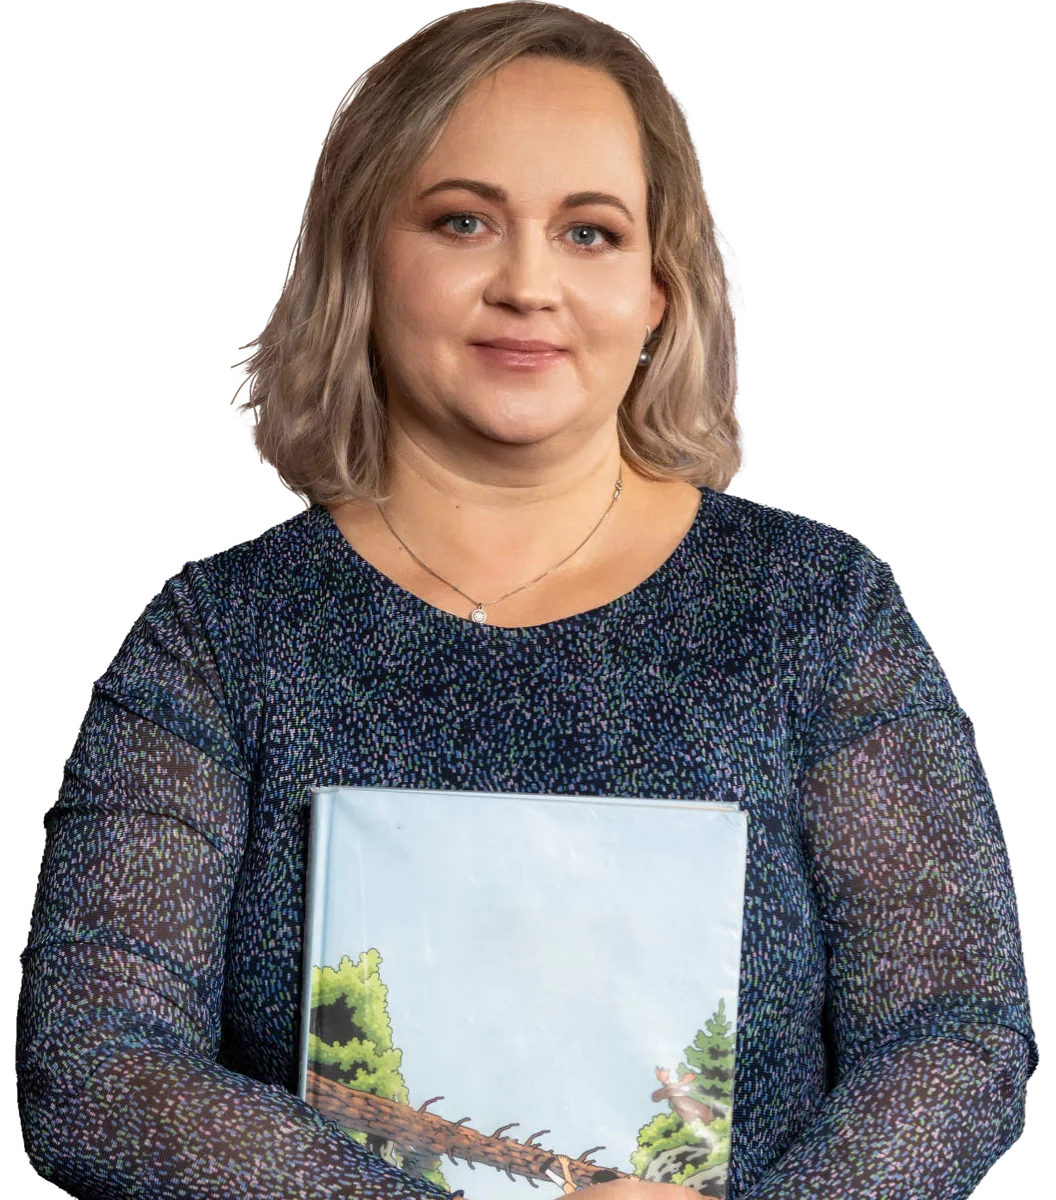
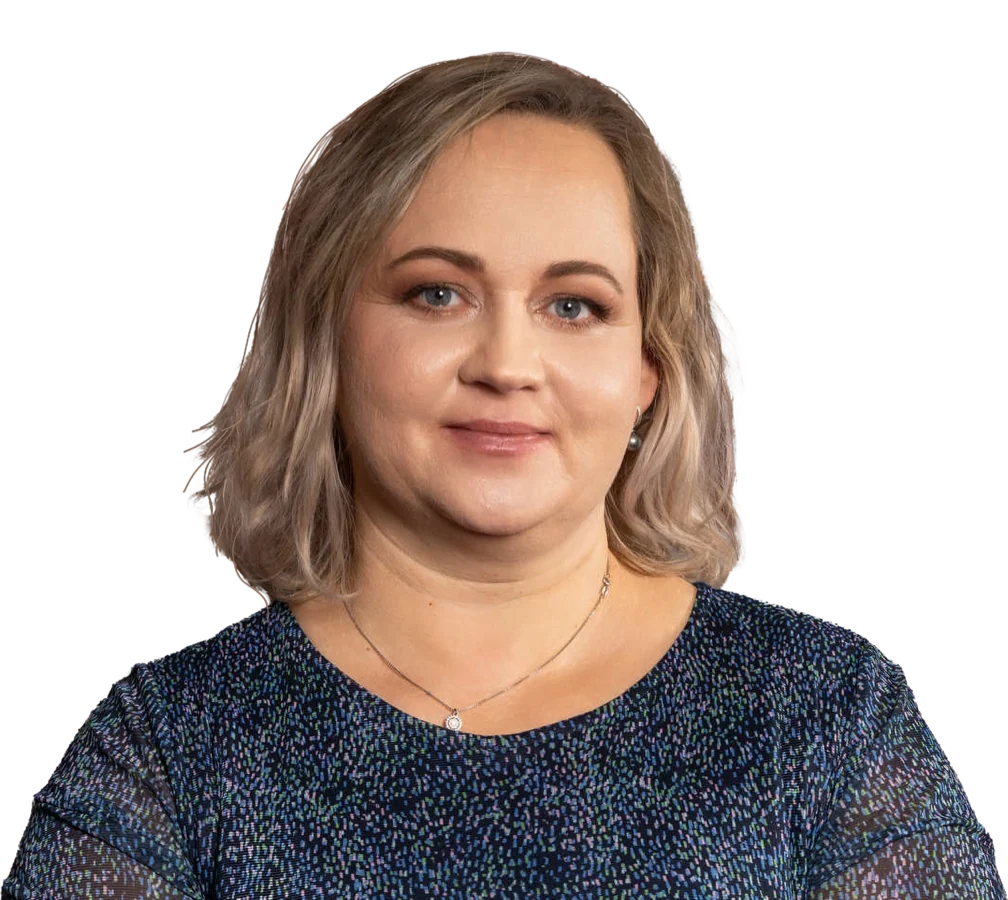
Feedbacks 22.9.
Tesnejšie portréty, menšie karty, oprava orezu a úvodzoviek

diff --git a/index.html b/index.html
@@ -59,9 +59,8 @@ body{
 
 /* ---------- HERO ---------- */
 .hero{
-  position:relative; padding-bottom:6cqw;   /* fotka pokračuje pod ľuďmi */
+  position:relative;
   container-type:inline-size;      /* písmo viažeme na šírku bloku, nie okna */
-  overflow:hidden;
   background:#B9D6ED;      /* farba oblohy z hornej hrany fotky */
   display:flex; flex-direction:column;   /* výška podľa obsahu – fotka ide až po pás */
 }
@@ -83,21 +82,25 @@ body{
 
 /* čierny pás – výška 3,87 % šírky bloku, zmerané */
 .topbar{
-  margin-top:3.6cqw;
+  /* šírka ako headline, a leží presne na hornej hrane fotky –
+     polovicou na oranžovom okraji, polovicou na fotke */
+  width:var(--measure); margin:0 auto;
+  position:relative; z-index:3;
+  transform:translateY(-50%);
   background:var(--ink);
   color:var(--white);
   font-family:var(--display);
   font-weight:900;
   font-size:1.78cqw;
-  letter-spacing:.02em;
+  letter-spacing:.005em;
   text-transform:uppercase;
   display:flex; justify-content:center; align-items:center;
-  gap:2cqw;
-  padding:.85cqw 1.6cqw;
+  gap:1.15cqw;
+  padding:.8cqw 1.5cqw;
   white-space:nowrap;
 }
-.topbar span{ display:flex; align-items:center; gap:2cqw }
-.topbar span::after{ content:""; width:2.6cqw; height:.26cqw; background:currentColor }
+.topbar span{ display:flex; align-items:center; gap:1.15cqw }
+.topbar span::after{ content:""; width:1.9cqw; height:.24cqw; background:currentColor }
 .topbar span:last-child::after{ display:none }
 
 /* vzduch medzi headlinom a ľuďmi – tu dýcha hrad */
@@ -109,7 +112,9 @@ body{
    pod ruky, nohy vidieť nie sú. Výška = polovica výšky fotky. */
 .hero__people{
   position:relative; display:block; width:var(--measure); margin:0 auto;
-  height:15cqw; overflow:hidden;
+  /* o 3,9 cqw vyššie, než je vidieť – ten kus schová biely pás,
+     takže rez nikdy nevykukne */
+  height:18.9cqw; overflow:hidden;
 }
 .hero__people img{ display:block; width:100%; height:auto }
 
@@ -120,7 +125,7 @@ body{
    Font má versálku 0,745 em → veľkosť písma 17,3 cqw,
    a plagát je o 10,2 % užší než prirodzený font → prestrkanie −0,035 em. */
 .hl{
-  margin:2.2cqw 0 0;
+  margin:-0.6cqw 0 0;
   font-family:var(--display);
   font-weight:900;
   width:max-content; max-width:100%; margin-inline:auto;
@@ -160,34 +165,24 @@ body{
   /* Pás je presne taký široký ako skupinová fotka a leží na jej spodnej
      hrane. Každá položka je potom posunutá tak, aby číslo a meno sedeli
      pod svojím človekom – polohy hláv sú odmerané z tej fotky. */
-  list-style:none; width:var(--measure); margin:-6cqw auto 0;
-  padding:var(--s3) 0;
+  list-style:none; width:var(--measure); margin:-3.9cqw auto 0;
+  padding:var(--s3) clamp(18px, 3.44vw, 52px);  /* odmerané: pri tejto hodnote sadnú čísla najbližšie k ľuďom */
   background:var(--white); border-radius:clamp(10px,1.3vw,18px);
-  display:grid; grid-template-columns:repeat(9, minmax(0,1fr)); gap:var(--s4) 0;
+  display:flex; justify-content:space-between; align-items:flex-start; gap:var(--s3);
   position:relative;
 }
-.team__item{ text-align:center; display:flex; flex-direction:column; align-items:center; gap:var(--s2) }
-/* posun každej položky na svojho človeka (% šírky položky) */
-.team__item:nth-child(1){ --dx:22.3% }
-.team__item:nth-child(2){ --dx:8.9% }
-.team__item:nth-child(3){ --dx:10.8% }
-.team__item:nth-child(4){ --dx:14.0% }
-.team__item:nth-child(5){ --dx:4.7% }
-.team__item:nth-child(6){ --dx:-11.4% }
-.team__item:nth-child(7){ --dx:-23.3% }
-.team__item:nth-child(8){ --dx:-8.2% }
-.team__item:nth-child(9){ --dx:-15.2% }
-.team__item{ transform:translateX(var(--dx,0)) }
+.team__item{ text-align:left; display:flex; flex-direction:column; align-items:flex-start; gap:var(--s2) }
 
 .team__num{
   font-family:var(--display); font-weight:900; font-size:clamp(14px,1.8vw,25px);
   line-height:1; color:var(--white); background:var(--orange);
-  border-radius:6px; padding:.26em .40em .20em; min-width:1.9em;
+  border-radius:6px; width:1.52em; aspect-ratio:1;    /* štvorec, nie obdĺžnik */
+  display:grid; place-items:center; padding:0 0 .06em;
 }
 .team__name{ line-height:1.05 }
 .team__fn{
   display:block; font-family:var(--display); font-weight:700;
-  font-size:clamp(10px,0.95vw,14px); color:var(--ink); letter-spacing:.01em;
+  font-size:clamp(12px,1.26vw,18px); color:var(--ink); letter-spacing:.01em;
 }
 .team__sn{
   display:block; font-family:var(--display); font-weight:900;
@@ -195,10 +190,12 @@ body{
   text-transform:uppercase; letter-spacing:-.01em;
 }
 
-@media (max-width:900px){
+@media (max-width:1150px){
   /* 3×3 – tam sa pod ľudí zarovnať nedá, posun vypíname */
-  .team__list{ grid-template-columns:repeat(3, 1fr); gap:var(--s5) var(--s3);
+  .team__list{ display:grid; grid-template-columns:repeat(3, 1fr);
+               gap:var(--s5) var(--s3); justify-content:stretch;
                width:auto; margin:-1px 0 0; padding:var(--s5) var(--s3) }
+  .team__item{ align-items:center; text-align:center }
   .team__item{ transform:none }
 }
 @media (max-width:560px){
@@ -217,18 +214,19 @@ body{
 
 .say{
   position:relative; background:var(--white); border-radius:var(--s6);
-  padding:var(--s5) var(--s5) var(--s5) 43%;
-  min-height:26cqw;          /* dve vedľa seba ako v PDF */
+  padding:var(--s5) var(--s5) var(--s5) 46%;
+  min-height:19cqw;          /* menej prázdna na to, koľko je textu */
   display:flex; align-items:center;
   scroll-margin-top:var(--s5);
 }
-.say--right{ padding:var(--s5) 43% var(--s5) var(--s5) }
+.say--right{ padding:var(--s5) 46% var(--s5) var(--s5) }
 
-/* Šírku drží plagát (37 % karty), výšku presah 6,1 %. Pomer sa tým
-   nezhoduje s pomerom fotky, tak ju orežeme po stranách – hlava zostáva hore. */
-.say__photo{ position:absolute; bottom:0; left:2%; width:37%; height:106.1%; overflow:hidden }
-.say--right .say__photo{ left:auto; right:2% }
-.say__photo img{ display:block; width:100%; height:100%; object-fit:cover; object-position:50% 0% }
+/* Fotka sa nikde neoreže: šírku zadáme, výška ide sama podľa pomeru
+   obrázka. Preto nie je z jednej strany useknutá a z druhej nie. */
+.say__photo{ position:absolute; bottom:0; left:2.5%; width:40%; height:auto;
+             overflow:hidden; border-radius:var(--s5) }
+.say--right .say__photo{ left:auto; right:2.5% }
+.say__photo img{ display:block; width:100%; height:auto }
 
 .say__body{ position:relative; width:100% }
 
@@ -246,7 +244,8 @@ body{
 .say__mark--a{ top:-.22em; left:-.12em }
 .say__mark--b{ right:-.06em; bottom:-.30em }
 
-.say__name{ margin:var(--s4) 0 0; font-family:var(--script); line-height:1.02; text-align:right }
+.say__name{ position:relative; z-index:1;   /* nad úvodzovkami, nie pod nimi */
+  margin:var(--s4) 0 0; font-family:var(--script); line-height:1.02; text-align:right }
 .say--right .say__name{ text-align:left }
 .say__fn{ display:block; font-size:clamp(17px,1.6vw,23px); color:var(--ink) }
 .say__sn{ display:block; font-size:clamp(20px,2.0vw,29px); color:var(--orange); text-transform:uppercase }
@@ -355,14 +354,14 @@ body{
 <div class="frame">
   <header class="hero">
     <div class="hero__bg" id="bg"></div>
-    <div class="hero__inner">
-
-      <nav class="topbar">
+    <nav class="topbar">
         <span>Voľby do VÚC</span>
         <span>24. október 2026</span>
         <span>Nezávislí kandidáti</span>
-        <span>Okres Trenčín</span>
-      </nav>
+      <span>Okres Trenčín</span>
+    </nav>
+
+    <div class="hero__inner">
 
       <h1 class="hl">
         <span class="hl__line hl__line--1">
@@ -430,7 +429,7 @@ body{
     <h2 id="vyjadrenia-nadpis" class="vh">Čo hovoria kandidáti</h2>
       <article class="say" id="huserka" data-reveal>
         <div class="say__photo">
-          <img src="assets/huserka.webp" width="1056" height="1200" loading="lazy" alt="Juraj Húserka">
+          <img src="assets/huserka.webp" width="1008" height="900" loading="lazy" alt="Juraj Húserka">
         </div>
         <div class="say__body">
           <span class="say__mark say__mark--a" aria-hidden="true">&rdquo;</span>
@@ -441,7 +440,7 @@ body{
       </article>
       <article class="say say--right" id="benovicova" data-reveal>
         <div class="say__photo">
-          <img src="assets/benovicova.webp" width="1056" height="1200" loading="lazy" alt="Martina Beňovičová">
+          <img src="assets/benovicova.webp" width="1008" height="900" loading="lazy" alt="Martina Beňovičová">
         </div>
         <div class="say__body">
           <span class="say__mark say__mark--a" aria-hidden="true">&rdquo;</span>
@@ -452,7 +451,7 @@ body{
       </article>
       <article class="say" id="misakova" data-reveal>
         <div class="say__photo">
-          <img src="assets/misakova.webp" width="1056" height="1200" loading="lazy" alt="Zuzana Mišáková">
+          <img src="assets/misakova.webp" width="1008" height="900" loading="lazy" alt="Zuzana Mišáková">
         </div>
         <div class="say__body">
           <span class="say__mark say__mark--a" aria-hidden="true">&rdquo;</span>
@@ -463,7 +462,7 @@ body{
       </article>
       <article class="say say--right" id="vano" data-reveal>
         <div class="say__photo">
-          <img src="assets/vano.webp" width="1056" height="1200" loading="lazy" alt="Tomáš Vaňo">
+          <img src="assets/vano.webp" width="1008" height="900" loading="lazy" alt="Tomáš Vaňo">
         </div>
         <div class="say__body">
           <span class="say__mark say__mark--a" aria-hidden="true">&rdquo;</span>
